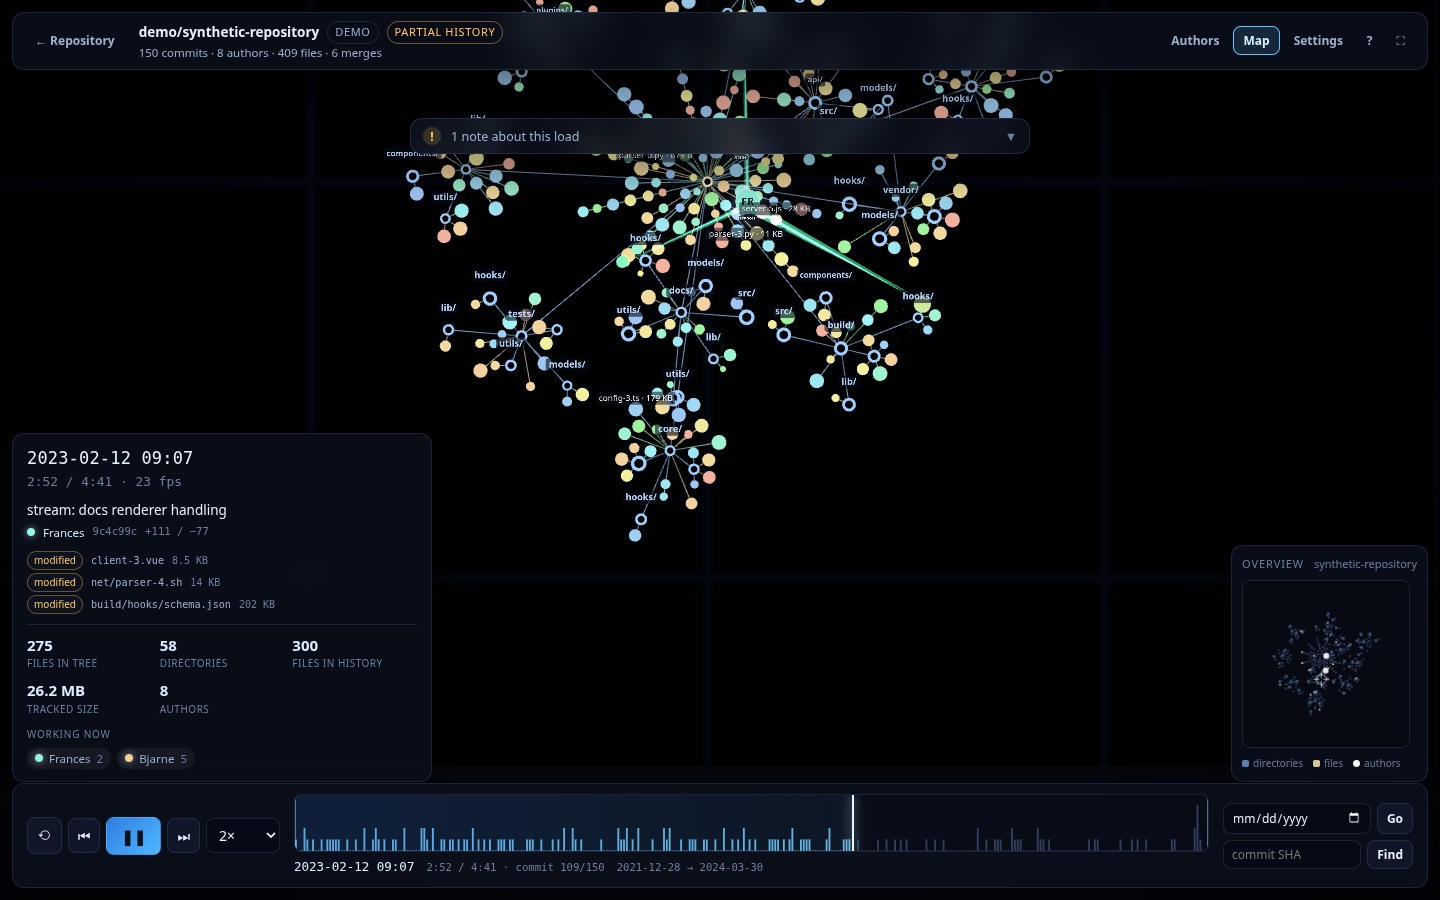
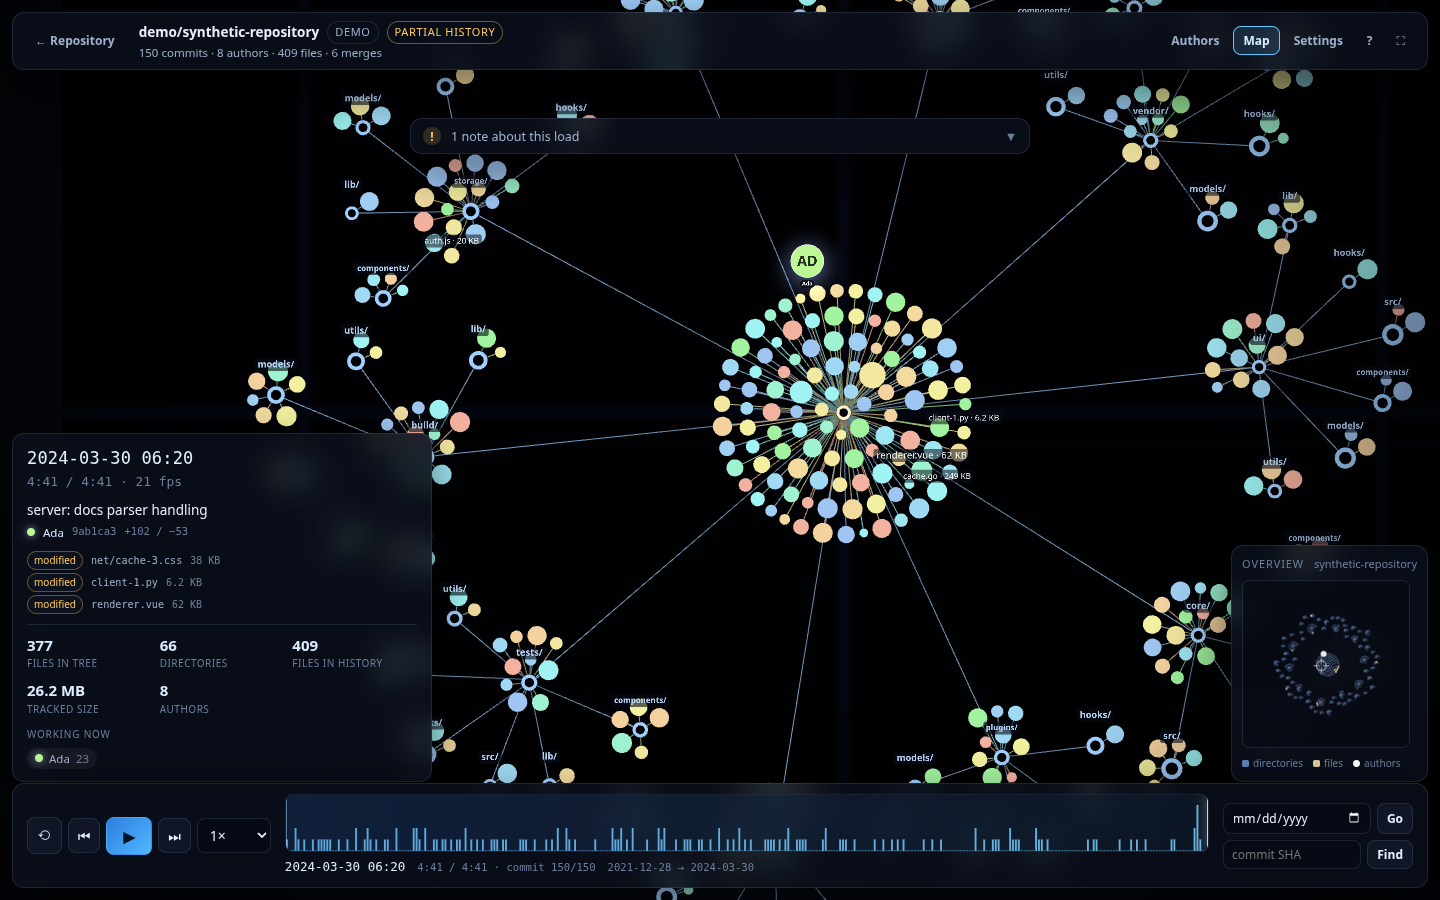
docs: refresh the screenshots for the new layout and glow
The layout screenshot was still the disc packing; replace it with the Gource
layout and add a glow screenshot to the rendering section.

diff --git a/README.md b/README.md
@@ -185,6 +185,8 @@ Given the same history and settings, the same sequence of events is produced:
 
 ### Rendering
 
+![Files rendered as Gource's lit balls inside a folder's bloom halo](docs/screenshot-glow.png)
+
 * Files and directories are two `InstancedMesh` objects — Gource's lit ball sprite for files, rings
   for directories — viewed through an orthographic camera, with per-instance colour and matrix
   updates only for changed nodes. Layer order: branches (behind), circles, folder glow, activity
